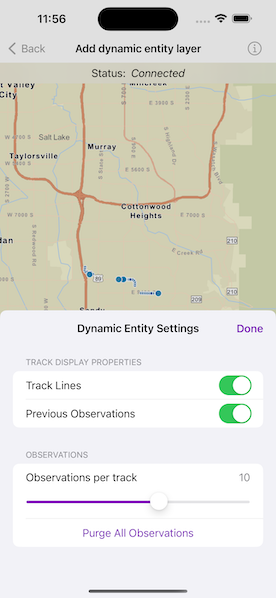
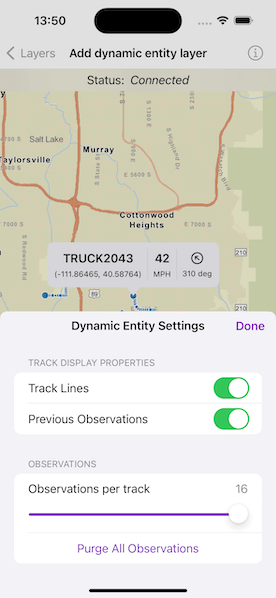
Add changes for callout.

diff --git a/Shared/Samples/Add dynamic entity layer/AddDynamicEntityLayerView.swift b/Shared/Samples/Add dynamic entity layer/AddDynamicEntityLayerView.swift
@@ -28,53 +28,72 @@ struct AddDynamicEntityLayerView: View {
         scale: 200_000
     )
     
+    /// The callout placement.
+    @State private var placement: CalloutPlacement?
+    
     /// A Boolean value indicating if the stream service is connected.
     var isConnected: Bool {
         model.streamService.connectionStatus == .connected
     }
     
     var body: some View {
-        // Creates a map view to display the map.
-        MapView(map: model.map, viewpoint: viewpoint)
-            .toolbar {
-                ToolbarItemGroup(placement: .bottomBar) {
-                    Button(isConnected ? "Disconnect" : "Connect") {
-                        Task {
-                            if isConnected {
-                                await model.streamService.disconnect()
-                            } else {
-                                try? await model.streamService.connect()
+        MapViewReader { proxy in
+            MapView(map: model.map, viewpoint: viewpoint)
+                .callout(placement: $placement) { placement in
+                    VehicleCallout(dynamicEntity: placement.geoElement as! DynamicEntity)
+                }
+                .onSingleTapGesture { screenPoint, _ in
+                    placement = nil
+                    Task {
+                        guard let result = try? await proxy.identify(on: model.dynamicEntityLayer, screenPoint: screenPoint, tolerance: 12),
+                              let observation = result.geoElements.first as? DynamicEntityObservation,
+                              let entity = observation.dynamicEntity
+                        else {
+                            return
+                        }
+                        placement = .geoElement(entity)
+                    }
+                }
+                .toolbar {
+                    ToolbarItemGroup(placement: .bottomBar) {
+                        Button(isConnected ? "Disconnect" : "Connect") {
+                            Task {
+                                if isConnected {
+                                    await model.streamService.disconnect()
+                                } else {
+                                    try? await model.streamService.connect()
+                                }
                             }
                         }
+                        Spacer()
+                        settingsButton
                     }
-                    Spacer()
-                    settingsButton
                 }
-            }
-            .overlay(alignment: .top) {
-                HStack {
-                    Text("Status:")
-                    Text(model.connectionStatus)
-                        .italic()
+                .overlay(alignment: .top) {
+                    HStack {
+                        Text("Status:")
+                        Text(model.connectionStatus)
+                            .italic()
+                    }
+                    .frame(maxWidth: .infinity)
+                    .padding(.vertical, 6)
+                    .background(.thinMaterial, ignoresSafeAreaEdges: .horizontal)
                 }
-                .frame(maxWidth: .infinity)
-                .padding(.vertical, 6)
-                .background(.thinMaterial, ignoresSafeAreaEdges: .horizontal)
-            }
-            .task {
-                // This will update `connectionStatus` when the stream service
-                // connection status changes.
-                for await status in model.streamService.$connectionStatus {
-                    model.connectionStatus = status.description
+                .task {
+                    // This will update `connectionStatus` when the stream service
+                    // connection status changes.
+                    for await status in model.streamService.$connectionStatus {
+                        model.connectionStatus = status.description
+                    }
                 }
-            }
+        }
     }
     
     @ViewBuilder private var settingsButton: some View {
         let button = Button("Dynamic Entity Settings") {
             isShowingSettings = true
         }
-        let settingsView = SettingsView()
+        let settingsView = SettingsView(calloutPlacement: $placement)
             .environmentObject(model)
         if #available(iOS 16, *) {
             button

diff --git a/Shared/Samples/Add dynamic entity layer/AddDynamicEntityLayerView.VehicleCallout.swift b/Shared/Samples/Add dynamic entity layer/AddDynamicEntityLayerView.VehicleCallout.swift
@@ -1,0 +1,106 @@
+// Copyright 2023 Esri
+//
+// Licensed under the Apache License, Version 2.0 (the "License");
+// you may not use this file except in compliance with the License.
+// You may obtain a copy of the License at
+//
+//   https://www.apache.org/licenses/LICENSE-2.0
+//
+// Unless required by applicable law or agreed to in writing, software
+// distributed under the License is distributed on an "AS IS" BASIS,
+// WITHOUT WARRANTIES OR CONDITIONS OF ANY KIND, either express or implied.
+// See the License for the specific language governing permissions and
+// limitations under the License.
+
+import ArcGIS
+import SwiftUI
+
+extension AddDynamicEntityLayerView {
+    struct VehicleCallout: View {
+        /// The dynamic entity that represents a vehicle.
+        let dynamicEntity: DynamicEntity
+        
+        /// The name of the vehicle.
+        @State private var name: String = ""
+        
+        /// The location of the vehicle.
+        @State private var location: String = ""
+        
+        /// The speed of the vehicle.
+        @State private var speed: Double = .nan
+        
+        /// The heading of the vehicle.
+        @State private var heading: Double = .nan
+        
+        var body: some View {
+            HStack {
+                VStack(alignment: .center, spacing: 6) {
+                    Text(name)
+                        .bold()
+                        .evaluateArcadeExpression("$feature.vehiclename", for: dynamicEntity) { evaluation in
+                            name = evaluation.stringValue
+                        }
+                    Text(location)
+                        .font(.caption2)
+                        .evaluateArcadeExpression(
+                            "concatenate(\"(\", Round($feature.point_x,6), \", \", Round($feature.point_y,6), \")\")",
+                            for: dynamicEntity
+                        ) { evaluation in
+                            location = evaluation.stringValue
+                        }
+                }
+                
+                Divider()
+                    .frame(maxHeight: 44)
+                VStack(spacing: 6) {
+                    Text(speed, format: .number.precision(.fractionLength(0)))
+                        .bold()
+                    Text("MPH")
+                        .font(.caption2)
+                }
+                
+                Divider()
+                    .frame(maxHeight: 44)
+                VStack(spacing: 6) {
+                    Image(systemName: "arrow.up.circle")
+                        .rotationEffect(.degrees(heading))
+                    Text(Measurement<UnitAngle>(value: heading, unit: .degrees).formatted())
+                        .font(.caption2)
+                }
+            }
+            .padding(10)
+            .task {
+                // Show initial heading and speed.
+                updateHeadingAndSpeed()
+                for await _ in dynamicEntity.changes {
+                    // Update heading and speed as the dynamic entity changes.
+                    updateHeadingAndSpeed()
+                }
+            }
+        }
+        
+        /// Updates the heading and the speed from the dynamic entity.
+        private func updateHeadingAndSpeed() {
+            withAnimation {
+                heading = dynamicEntity.attributes["heading"] as? Double ?? .nan
+            }
+            speed = dynamicEntity.attributes["speed"] as? Double ?? .nan
+        }
+    }
+}
+
+private extension Result<ArcadeEvaluationResult, Error> {
+    /// The evaluation as a string. If the evaluation results in an error, `nil`,
+    /// or a type other than a string, then an empty string is returned.
+    var stringValue: String {
+        switch self {
+        case .success(let evalutationResult):
+            if let resultString = evalutationResult.result(as: .string) as? String {
+                return resultString
+            }
+            fallthrough
+        default:
+            return ""
+        }
+    }
+}

diff --git a/Shared/Samples/Add dynamic entity layer/AddDynamicEntityLayerView.SettingsView.swift b/Shared/Samples/Add dynamic entity layer/AddDynamicEntityLayerView.SettingsView.swift
@@ -12,6 +12,7 @@
 // See the License for the specific language governing permissions and
 // limitations under the License.
 
+import ArcGIS
 import SwiftUI
 
 extension AddDynamicEntityLayerView {
@@ -21,6 +22,9 @@ extension AddDynamicEntityLayerView {
         
         /// The action to dismiss the settings sheet.
         @Environment(\.dismiss) private var dismiss: DismissAction
+        
+        /// The callout placement.
+        @Binding var calloutPlacement: CalloutPlacement?
         
         var body: some View {
             if #available(iOS 16, *) {
@@ -57,6 +61,7 @@ extension AddDynamicEntityLayerView {
                         Button("Purge All Observations") {
                             Task {
                                 try? await model.streamService.purgeAll()
+                                calloutPlacement = nil
                             }
                         }
                         Spacer()

diff --git a/Shared/Samples/Add dynamic entity layer/README.md b/Shared/Samples/Add dynamic entity layer/README.md
@@ -23,6 +23,7 @@ Use the controls to connect to or disconnect from the stream service, modify dis
 4. Create a `DynamicEntityLayer` using the stream service.
 5. Update values in the layer's `trackDisplayProperties` to customize the layer's appearance.
 6. Add the `DynamicEntityLayer` to the map.
+7. Use the `onSingleTapGesture` modifier and call `MapViewProxy.identify(on:screenPoint:tolerance:returnPopupsOnly:maximumResults:)` to select a dynamic entity and display the entity's attributes in a callout.
 
 ## Relevant API
 
